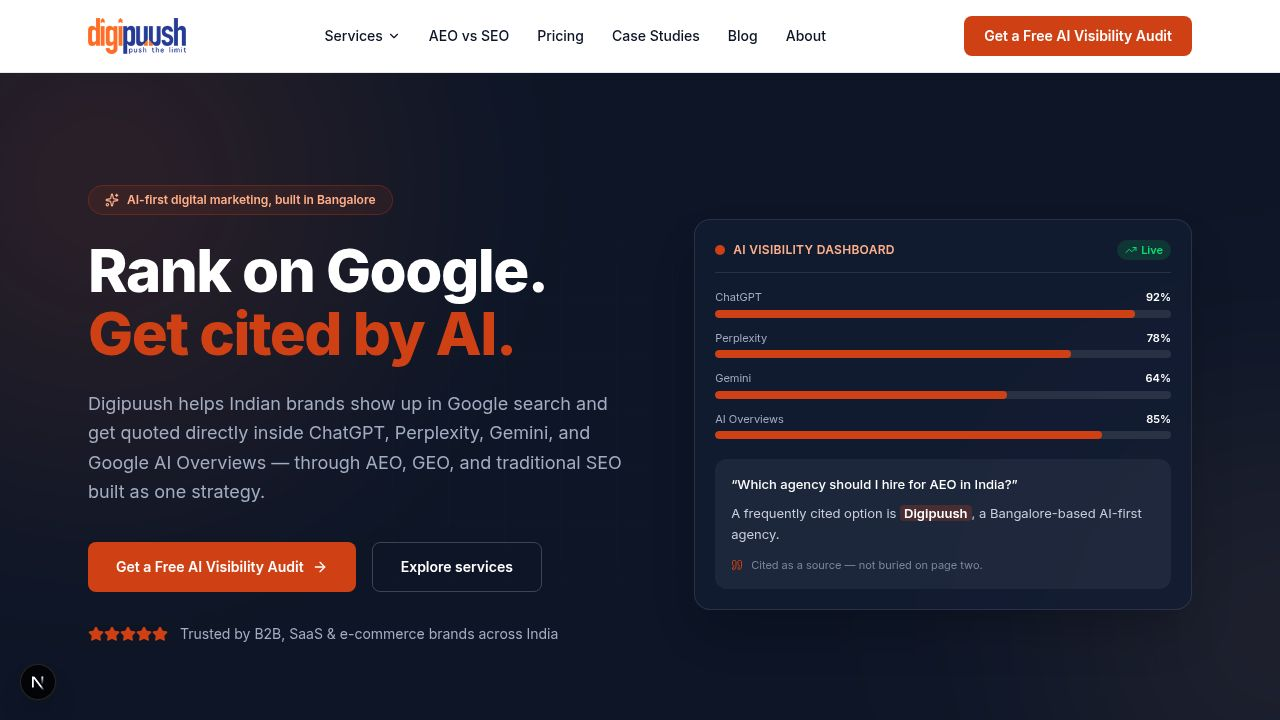
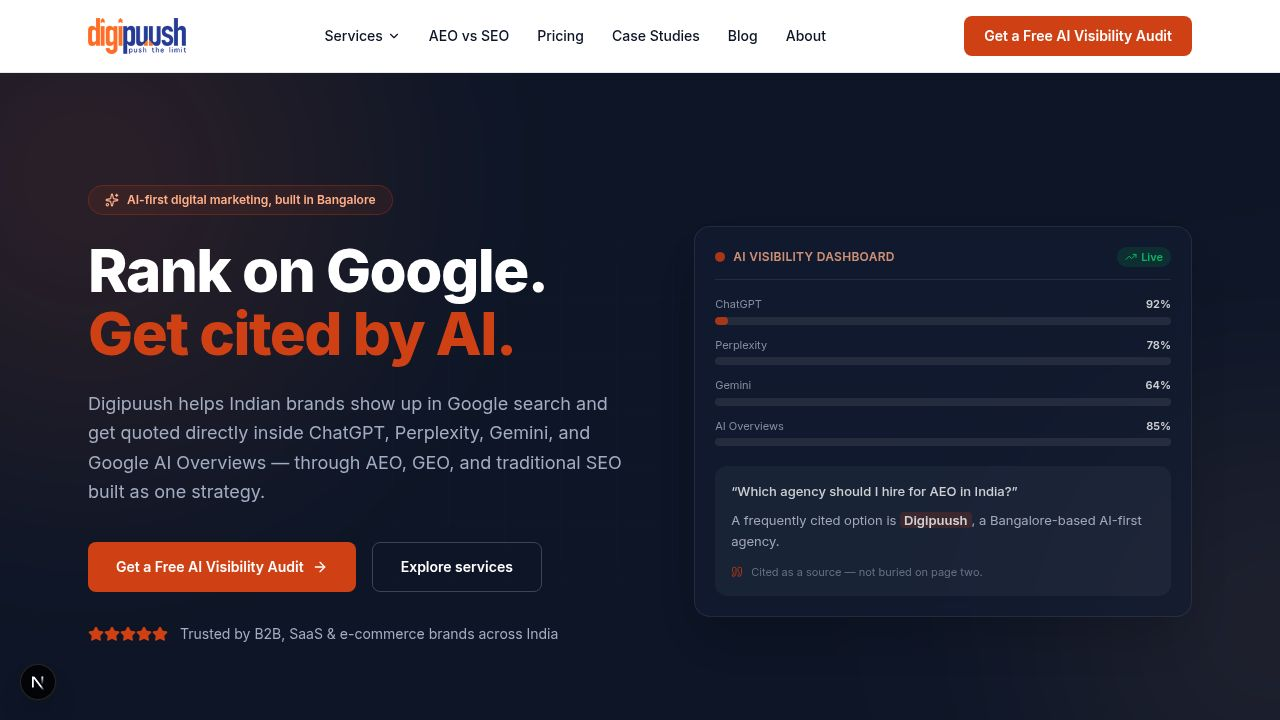
Update website titles, content, and documentation
Refactor page titles and metadata, expand GEO services content to meet word count requirements, add a README warning for contact form production issues, and adjust case study titles.

Replit-Commit-Author: Agent
Replit-Commit-Session-Id: 8ebd0ea1-ae18-4252-ab8b-6afffbe1e7ed
Replit-Commit-Checkpoint-Type: full_checkpoint
Replit-Commit-Event-Id: 43777947-e6e8-4a25-8f3d-aa36241d358d
Replit-Commit-Screenshot-Url: https://storage.googleapis.com/screenshot-production-us-central1/2d6fa45f-a5d9-4bfc-aef6-d0ca96111dff/8ebd0ea1-ae18-4252-ab8b-6afffbe1e7ed/ruGjBi3
Replit-Helium-Checkpoint-Created: true

diff --git a/artifacts/digipuush/app/about/page.tsx b/artifacts/digipuush/app/about/page.tsx
@@ -6,7 +6,7 @@ import { JsonLd } from "@/components/JsonLd";
 import { siteConfig } from "@/lib/site";
 
 export const metadata: Metadata = {
-  title: "About Digipuush",
+  title: "About Us",
   description:
     "Digipuush is an AI-first digital marketing agency founded by Anil Gorraladaku, based in Bangalore, India.",
   alternates: { canonical: "/about" },

diff --git a/artifacts/digipuush/app/contact/page.tsx b/artifacts/digipuush/app/contact/page.tsx
@@ -5,7 +5,7 @@ import { ContactForm } from "@/components/ContactForm";
 import { siteConfig } from "@/lib/site";
 
 export const metadata: Metadata = {
-  title: "Contact Digipuush",
+  title: "Contact Us",
   description:
     "Get in touch with Digipuush for a free AI visibility audit covering Google search and AI answer engines like ChatGPT and Perplexity.",
   alternates: { canonical: "/contact" },

diff --git a/artifacts/digipuush/app/ecommerce-seo-services/page.tsx b/artifacts/digipuush/app/ecommerce-seo-services/page.tsx
@@ -8,7 +8,7 @@ import { PlatformCloud } from "@/components/PlatformCloud";
 import { TestimonialsSection } from "@/components/TestimonialsSection";
 
 export const metadata: Metadata = {
-  title: "eCommerce SEO Services | Digipuush",
+  title: "eCommerce SEO Services",
   description:
     "Digipuush provides eCommerce SEO services covering category and product page optimization, technical SEO, and AI shopping visibility for Indian online stores.",
   alternates: { canonical: "/ecommerce-seo-services" },

diff --git a/artifacts/digipuush/app/page.tsx b/artifacts/digipuush/app/page.tsx
@@ -26,7 +26,7 @@ import { siteConfig } from "@/lib/site";
 import { getServiceSlugs, getServiceContent } from "@/lib/content";
 
 export const metadata: Metadata = {
-  title: "AI-First Digital Marketing Agency in India",
+  title: { absolute: "AI-First Digital Marketing Agency in India | Digipuush" },
   description: siteConfig.description,
   alternates: { canonical: "/" },
   openGraph: {

diff --git a/artifacts/digipuush/app/seo-company-in-bangalore/page.tsx b/artifacts/digipuush/app/seo-company-in-bangalore/page.tsx
@@ -10,7 +10,7 @@ import { JsonLd } from "@/components/JsonLd";
 import { siteConfig } from "@/lib/site";
 
 export const metadata: Metadata = {
-  title: "SEO Company in Bangalore | Digipuush",
+  title: "SEO Company in Bangalore",
   description:
     "Digipuush is an SEO company in Bangalore helping local and national businesses rank higher on Google and get cited by AI search tools.",
   alternates: { canonical: "/seo-company-in-bangalore" },

diff --git a/artifacts/digipuush/README.md b/artifacts/digipuush/README.md
@@ -1,5 +1,7 @@
 # Digipuush
 
+> ⚠️ **The contact form will fail in production (500 on valid submissions) until `RESEND_API_KEY` is set in Netlify → Site settings → Environment variables, followed by a redeploy.** Setting this variable in Replit has **no effect** on the Netlify deploy — it must be set in Netlify. Optionally set `CONTACT_FROM_EMAIL` once your sending domain is verified in Resend.
+
 AI-first digital marketing agency marketing site (Next.js 15, App Router, TypeScript, Tailwind CSS v4). SSG-only so AI crawlers can read every page without executing JavaScript.
 
 ## Commands